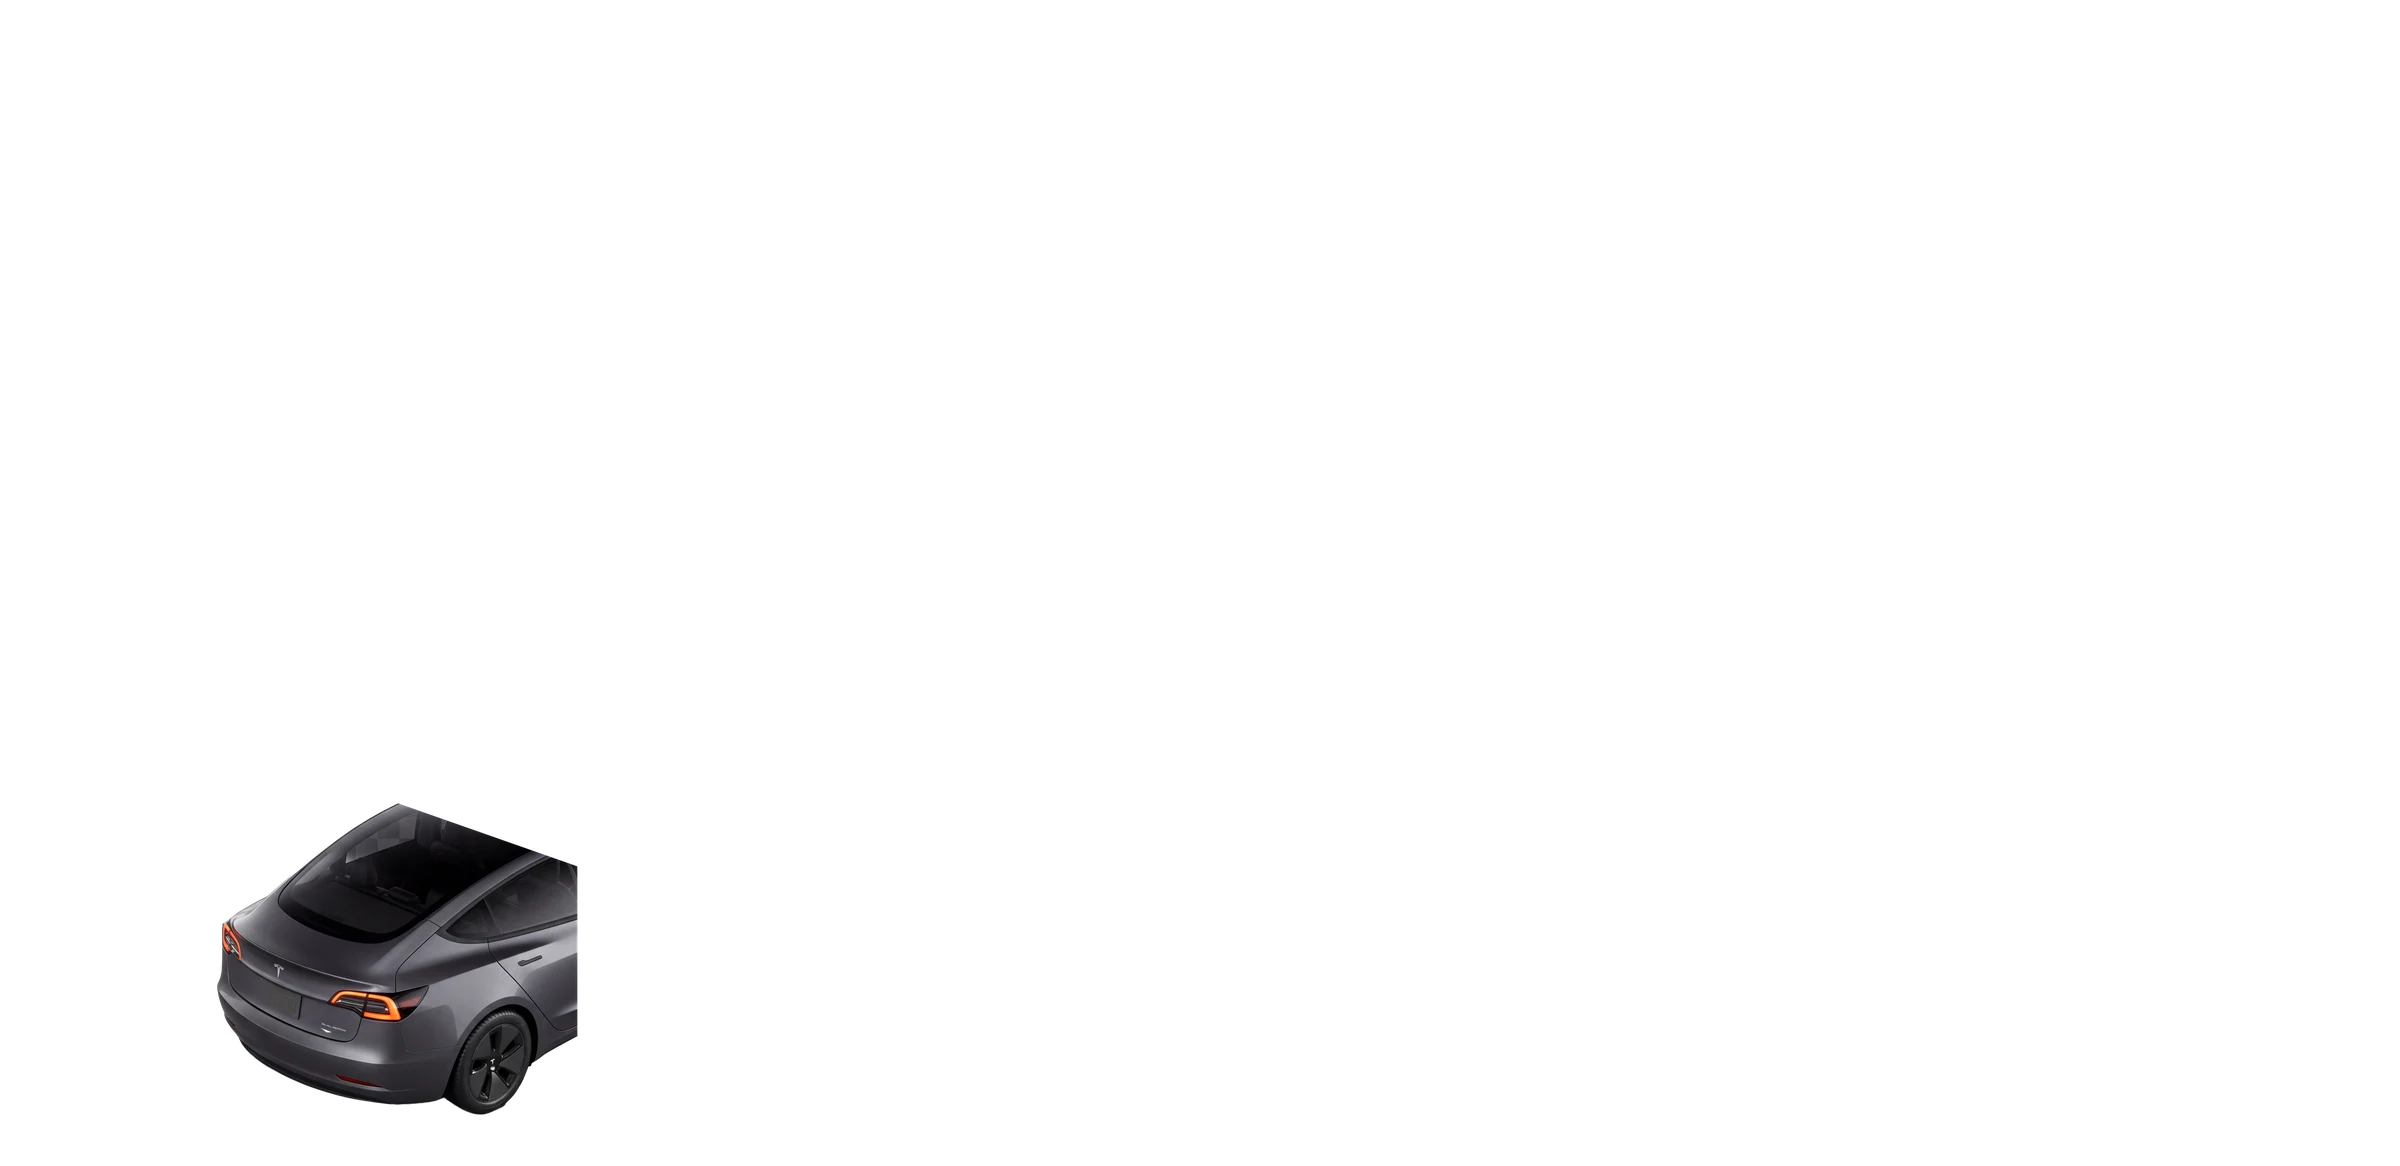
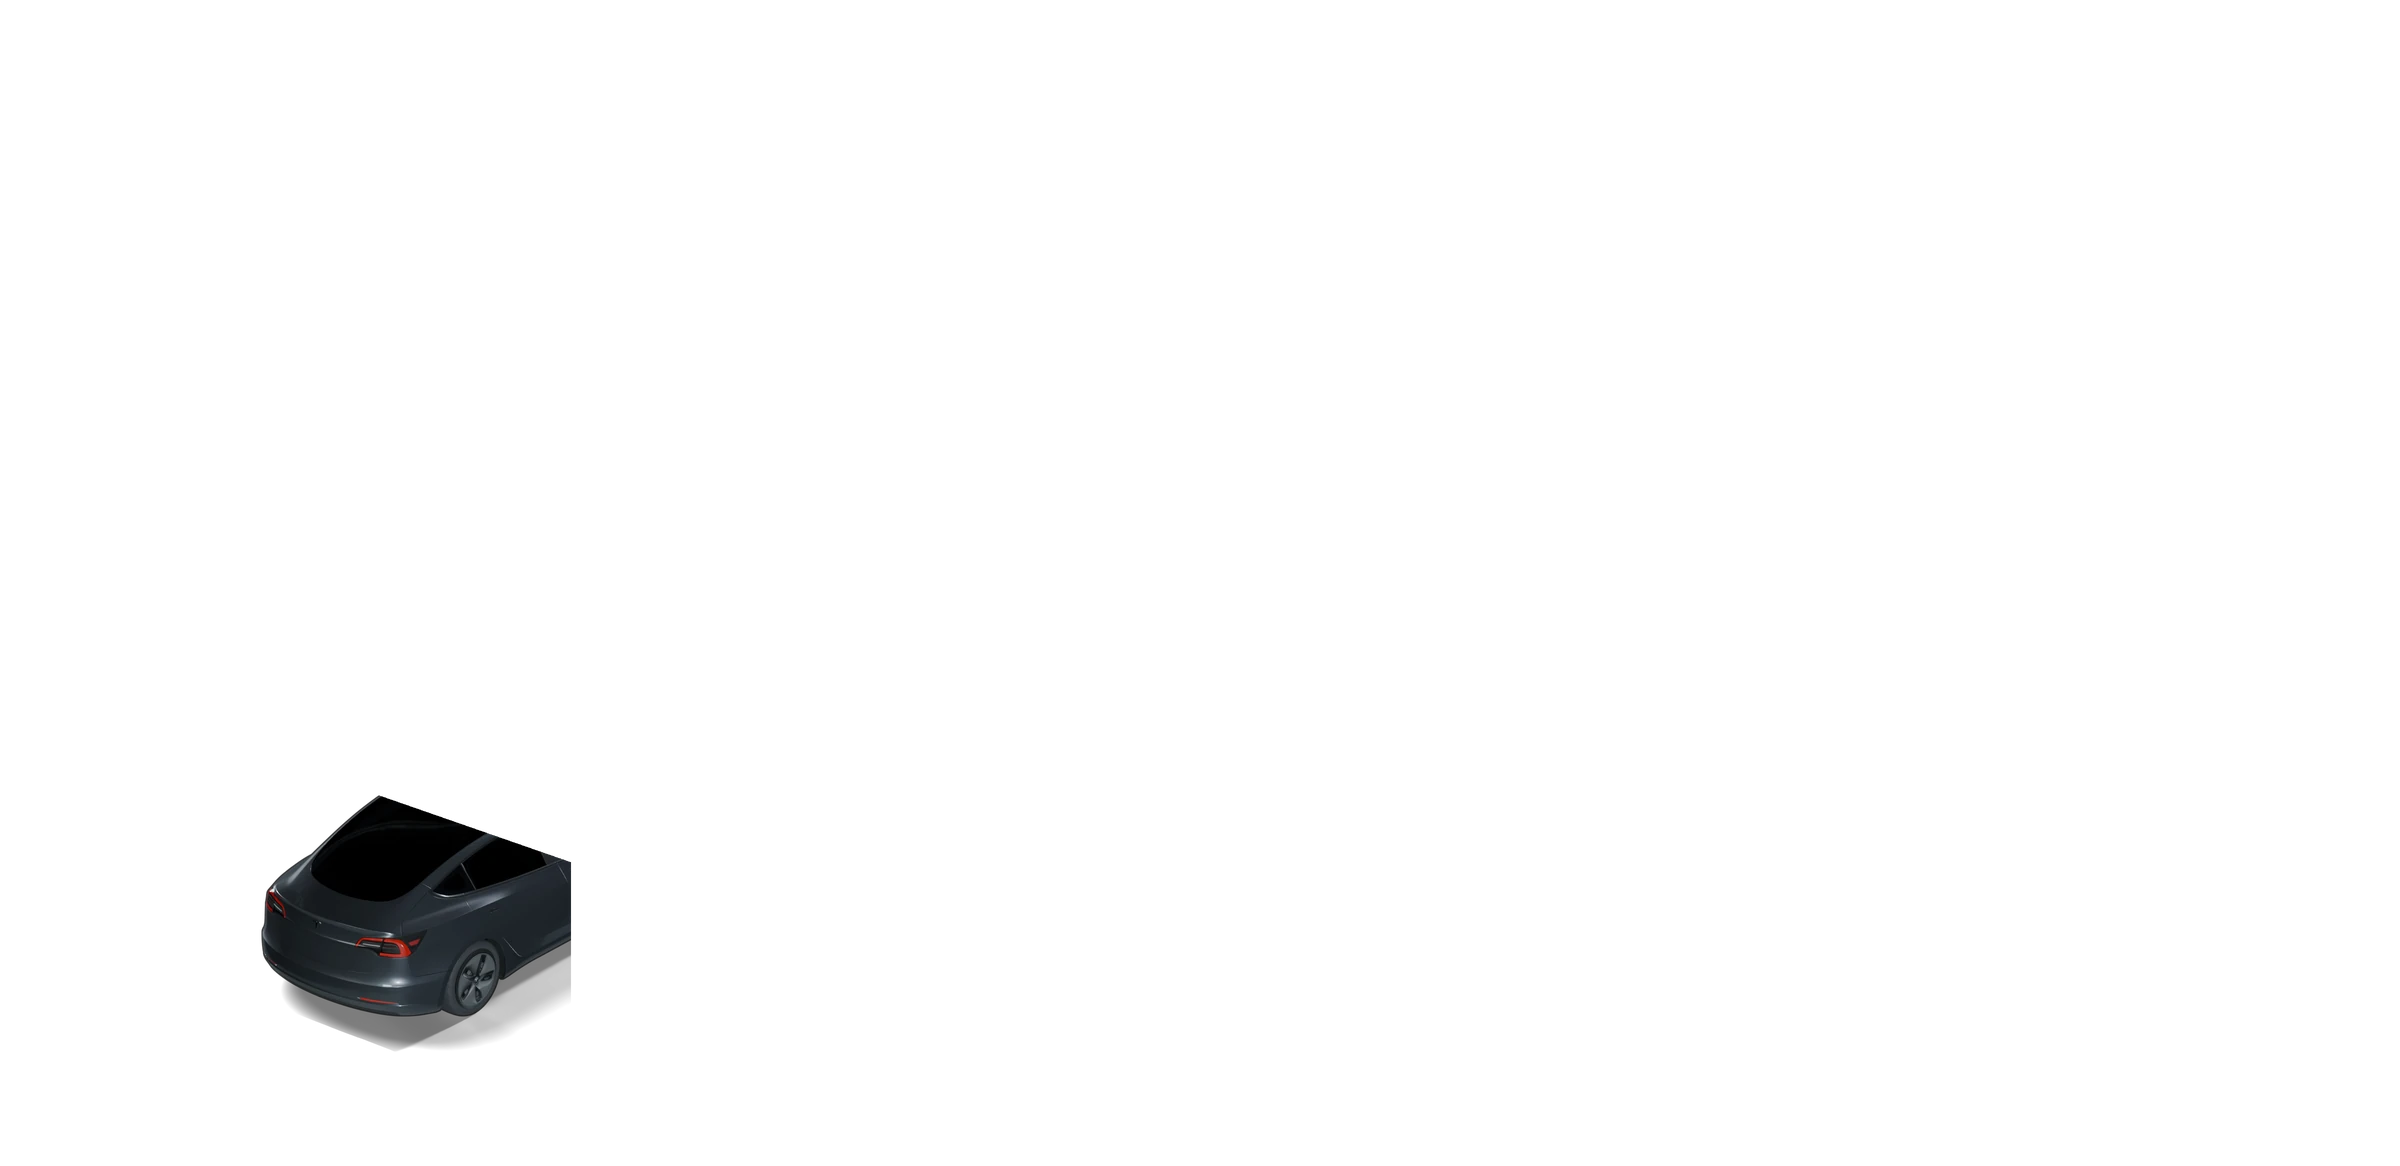
Render Tesla T.I.E. Fighter like the other cars
Tesla T.I.E. Fighter's drawn image is replaced by a render through the
same pipeline as R2D2 and the Star Destroyer, at the house drawing's
true scale and parked the same way: an original Model 3 in Midnight
Silver Metallic with 18" Aero covers, black trim and handles, and a
black interior. Its plug moves to the top of the new left taillight.
The README credits the Model 3 mesh, which is CC BY 4.0.

Changed region(s): [[0.0938, 0.6792, 0.25, 0.9571]]

diff --git a/components/scene/live-scene.test.tsx b/components/scene/live-scene.test.tsx
@@ -341,9 +341,10 @@ describe("charging", () => {
     expect(new Set([modelY, model3, starDestroyer].map(({ plug }) => plug[1].join()))).toHaveProperty("size", 3);
   });
 
-  test("R2D2's and Tesla Star Destroyer's plugs sit on top of the left taillight in their renders", () => {
+  test("each car's plug sits on top of the left taillight in its render", () => {
     // Measured on the renders, in render units; the stage adds 80 down.
     expect(CAR_CABLES.modelY.plug[1]).toEqual([178.5, 580.7 + 80]);
+    expect(CAR_CABLES.model3.plug[1]).toEqual([180.9, 594.1 + 80]);
     expect(CAR_CABLES.starDestroyer.plug[1]).toEqual([178.3, 590.7 + 80]);
   });
 

diff --git a/components/scene/layout.ts b/components/scene/layout.ts
@@ -79,7 +79,7 @@ const plugged = ([px, py]: Point) => {
 };
 export const CAR_CABLES = {
   modelY: plugged([178.5, 580.7]),
-  model3: plugged([153, 612]),
+  model3: plugged([180.9, 594.1]),
   starDestroyer: plugged([178.3, 590.7]),
 };
 

diff --git a/openspec/changes/tie-fighter-render/design.md b/openspec/changes/tie-fighter-render/design.md
@@ -1,0 +1,34 @@
+# Design
+
+## Context
+
+Car layers are 2400 x 1166 crops of the house's 4800 x 3584 frame (halved, from y = 622). Each car's cable is `plugged([x, y])` in `components/scene/layout.ts`, with the plug at the top of the car's left taillight, in render units (webp px / 1.5). The archived `true-scale-cars` change put R2D2 and the Star Destroyer through one Blender pipeline. Its scripts are in `Tesla App Assets/model3-render/` and `modely-render/`. This change adds `Tesla App Assets/tie-render/`, adapted from the Model Y scripts.
+
+## Goals / Non-Goals
+
+**Goals:**
+- T.I.E. Fighter at true scale, parked like the other two: rear-right ground corner at house (789, 2741), clipped to the door opening.
+- Its real configuration: Midnight Silver Metallic, 18" Aero covers, black trim and handles, black interior.
+
+**Non-Goals:**
+- Changing which cars have their own image, or the replay fallback rule.
+- Credit anywhere on the site.
+
+## Decisions
+
+- **The mesh:** "Tesla 2018 Model 3" by Ameer Studio on Sketchfab, CC BY 4.0. It was the most detailed free original-body Model 3 found. The same mesh is also uploaded under other accounts, so its provenance is uncertain. The owner chose it anyway; the credit follows the licence file that ships with the download.
+- **Fixes to the mesh, in the render script:**
+  - Width scaled to 1.849 m; the mesh is about 5% wide. Length is exact; height is 1.409 m against 1.443 m.
+  - Its one chrome material (window trim, handles, badges) is made satin black, and the two T emblems keep chrome.
+  - All materials are capped at satin roughness, since the mesh ships them fully matte.
+  - Every light the glTF marks emissive (taillights, reflectors, headlights, screen) is switched off, as on a parked car.
+  - The taillight lens is clear glass over the textured lamps.
+  - The licence plate is removed, since the other cars have none.
+- **Aero covers** are cut from Tesla's configurator render of this exact spec (`$PMNG,$W38B,$IN3PB`), which is already dark grey, so it needs no tint.
+- **Keep the file name `model-3.webp`.** Renaming it would touch `images.ts` and its test for no behaviour change.
+
+## Risks / Trade-offs
+
+- [The mesh's CC BY may not be the uploader's to give] → The owner accepted this. If it's ever challenged, the wintrez "Tesla M3 model" (CC BY, made in Blender) is the fallback mesh.
+- [Paint colour is set by eye, not solved against Tesla's render] → The owner reviews it on the page.
+- [The cable curve was tuned for plugs near `[150, 600]`] → Check it on the page, as for the other two.

diff --git a/openspec/changes/tie-fighter-render/proposal.md b/openspec/changes/tie-fighter-render/proposal.md
@@ -1,0 +1,27 @@
+# Proposal
+
+## Why
+
+Tesla T.I.E. Fighter's `model-3.webp` is the old drawn image. Since `true-scale-cars` it is larger than R2D2 and the Star Destroyer and doesn't match their renders. It also isn't the car as it was: wrong wheels, chrome trim. Re-rendering it through the same pipeline makes all three cars one set.
+
+## What Changes
+
+- **New T.I.E. Fighter image:** `public/scene/model-3.webp` is replaced by a render of an original (2017 to 2023) Model 3 in Midnight Silver Metallic, with 18" Aero covers, black window trim and door handles, and a black interior. It uses the same camera, materials, true scale (240 px/m) and garage placement as the other two cars. The file name stays, so the replay fallback for cars without their own image gets the true-scale car too.
+- **New plug point:** T.I.E. Fighter's plug moves from `[153, 612]` to the top of the new render's left taillight, measured during apply.
+- **Credit:** the README's `## Credits` gains the Model 3 mesh, which is CC BY 4.0.
+
+## Capabilities
+
+### New Capabilities
+
+### Modified Capabilities
+
+None: T.I.E. Fighter still has its own image and cable, and the replay fallback still uses it; only the image and plug point change.
+
+## Impact
+
+- `public/scene/model-3.webp` (replaced)
+- `components/scene/layout.ts` (one plug point)
+- `components/scene/live-scene.test.tsx` (the plug test gains T.I.E. Fighter)
+- `README.md` (credits)
+- Render sources outside the repo: `Tesla App Assets/tie-render/` (new)

diff --git a/openspec/changes/tie-fighter-render/tasks.md b/openspec/changes/tie-fighter-render/tasks.md
@@ -1,0 +1,17 @@
+# Tasks
+
+## 1. Image
+
+- [x] 1.1 Render and composite `Tesla App Assets/tie-render/` (wheel texture, then render, then composite). Check the angles are in tolerance, then copy its `tie-fighter.webp` over `public/scene/model-3.webp`
+- [x] 1.2 Measure T.I.E. Fighter's plug (top of the left taillight) on the render, in render units
+
+## 2. Plug and credit
+
+- [x] 2.1 Write a failing test in `live-scene.test.tsx`: T.I.E. Fighter's plug ends at the measured point (render units, plus the stage's 80)
+- [x] 2.2 Update `CAR_CABLES.model3` in `components/scene/layout.ts`; run the whole suite
+- [x] 2.3 Add the Model 3 mesh to the README's `## Credits`: title, author, Sketchfab link, CC BY 4.0, and that it was modified
+
+## 3. Check
+
+- [x] 3.1 Look at T.I.E. Fighter plugged in on the page (or a composite of the scene's layers): it sits inside the garage, and its cable reaches the top of its left taillight without crossing the body
+- [x] 3.2 Run the ponytail review on the diff in a fresh subagent and report its findings

diff --git a/README.md b/README.md
@@ -183,3 +183,5 @@ PG_BIN=/usr/lib/postgresql/18/bin yarn vitest run
 ## Credits
 
 R2D2's render in `public/scene/model-y.webp` is made from ["2021 Tesla Model Y"](https://sketchfab.com/3d-models/59e2ead369984b1a85c800ff6cf6789d) by tonielpro520, licensed under [CC BY 4.0](https://creativecommons.org/licenses/by/4.0/). The model was modified: new materials and paint, 19" aero covers in place of its wheels, and its own lighting and camera.
+
+Tesla T.I.E. Fighter's render in `public/scene/model-3.webp` is made from ["Tesla 2018 Model 3"](https://sketchfab.com/3d-models/5ef9b845aaf44203b6d04e2c677e444f) by [Ameer Studio](https://sketchfab.com/uchiha.321abc), licensed under [CC BY 4.0](https://creativecommons.org/licenses/by/4.0/). The model was modified: new materials and paint, black trim, its lights switched off, its width corrected, its licence plate removed, 18" aero covers in place of its wheels, and its own lighting and camera.
